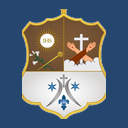
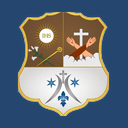
brasão: escudo inteiro e com respiro; rodapé reorganizado
O ESCUDO estava cortado nos quatro lados. Medindo o brasão de 900x1109: as
abas do escudo começam em y=301 e a ponta termina em y=912, mas a caixa de
recorte começava em y=247 -- 54 px acima, dentro da haste da cruz, que vinha
junto como um toco -- e terminava exatamente em cima da ponta.

Duas correções, as duas medidas e não estimadas:

- a caixa passou a conter o escudo inteiro, com folga nas laterais;
- `com_margem()` acrescenta uma margem transparente ao redor. Isso precisa ser
  ACRESCENTADO, não apenas "não cortado": `recortar_conteudo` recorta DENTRO
  da imagem, então quando o desenho encosta na borda não há de onde tirar
  respiro. Vale para o brasão completo também.

Com a folga, entrava um pedaço da fita no canto de baixo -- as letras
"...TA CLARA..." apareciam ali. `manter_maior_peca` não resolvia porque a fita
ENCOSTA no escudo e as duas viram uma peça só. `manter_trecho_central` varre
cada linha do meio para fora até achar transparência: sai o escudo, e o que
estiver separado por qualquer vão some. Conferido: as quatro bordas agora têm
zero pixels opacos, nas duas imagens. Favicon regerado do escudo novo.

O RODAPÉ tinha doze links do mesmo peso em duas colunas -- uma parede que
obriga a ler tudo para achar o horário da missa. Agora são três grupos
nomeados (Celebrações, Comunidade, Participe), e o olho pula direto para o
bloco certo.

Telefone, WhatsApp e e-mail viraram links de verdade (`tel:`, `wa.me`,
[…]

Changed region(s): [[0.125, 0.0625, 0.875, 0.9375]]

diff --git a/components/Footer.tsx b/components/Footer.tsx
@@ -1,82 +1,187 @@
 import Link from "next/link";
 import Image from "next/image";
-import { MapPin, Phone, Mail, Clock } from "lucide-react";
-import { paroquia } from "@/lib/dados";
+import { Clock, Mail, MapPin, MessageCircle, MonitorPlay, Phone } from "lucide-react";
+import { paroquia, youtube } from "@/lib/dados";
+
+/**
+ * Rodapé do site.
+ *
+ * Os atalhos vêm agrupados por assunto, e não numa lista corrida de doze
+ * itens: uma coluna com doze links do mesmo peso vira parede, e quem procura
+ * o horário da missa lê tudo até achar. Com os grupos nomeados, o olho pula
+ * direto para o bloco certo.
+ *
+ * Telefone, WhatsApp e e-mail são links de verdade (`tel:`, `wa.me`,
+ * `mailto:`) — no celular, que é de onde vem a maior parte das visitas, isso
+ * é a diferença entre ligar num toque e copiar o número na mão.
+ */
+
+type Grupo = { titulo: string; itens: { href: string; texto: string }[] };
+
+const ATALHOS: Grupo[] = [
+  {
+    titulo: "Celebrações",
+    itens: [
+      { href: "/horarios", texto: "Horários de missas" },
+      { href: "/calendario-liturgico", texto: "Calendário litúrgico" },
+      { href: "/povo-de-deus", texto: "Folheto O Povo de Deus" },
+      { href: "/missa-online", texto: "Missa online" },
+    ],
+  },
+  {
+    titulo: "Comunidade",
+    itens: [
+      { href: "/sobre", texto: "A paróquia" },
+      { href: "/pastorais", texto: "Pastorais e movimentos" },
+      { href: "/catequese", texto: "Catequese" },
+      { href: "/galeria", texto: "Galeria de fotos" },
+    ],
+  },
+  {
+    titulo: "Participe",
+    itens: [
+      { href: "/aviso-paroquial", texto: "Aviso paroquial" },
+      { href: "/noticias", texto: "Notícias e eventos" },
+      { href: "/dizimo", texto: "Dízimo e doações" },
+      { href: "/contato", texto: "Fale conosco" },
+    ],
+  },
+];
+
+/** Só os dígitos, que é o que `tel:` entende. */
+const TELEFONE_DISCAVEL = paroquia.telefone.replace(/\D/g, "");
 
 export default function Footer() {
   return (
     <footer className="bg-principal text-fundo">
-      <div className="mx-auto grid max-w-6xl gap-8 px-4 py-10 sm:grid-cols-2 lg:grid-cols-3">
-        <div>
-          <div className="flex items-center gap-3">
-            <Image
-              src="/fotos/brasao-escudo.webp"
-              alt=""
-              width={480}
-              height={600}
-              className="h-12 w-auto"
-            />
-            <h2 className="font-serif text-lg">{paroquia.nome}</h2>
+      <div className="mx-auto max-w-6xl px-4 py-12">
+        <div className="grid gap-10 lg:grid-cols-12">
+          {/* Identidade */}
+          <div className="lg:col-span-4">
+            <div className="flex items-start gap-4">
+              <Image
+                src="/fotos/brasao-escudo.webp"
+                alt=""
+                width={480}
+                height={542}
+                className="h-16 w-auto shrink-0 drop-shadow"
+              />
+              <div>
+                <p className="font-serif text-lg leading-tight">
+                  {paroquia.nome}
+                </p>
+                <p className="mt-1 text-sm text-fundo-suave">
+                  Jardim Botânico · Brasília-DF
+                </p>
+              </div>
+            </div>
+
+            <p className="mt-5 border-l-2 border-destaque pl-3 text-sm italic leading-relaxed text-destaque-claro">
+              “Senhor, fazei-me instrumento de vossa paz.”
+            </p>
+
+            <a
+              href={youtube.canalUrl}
+              target="_blank"
+              rel="noopener noreferrer"
+              className="mt-5 inline-flex items-center gap-2 rounded-lg border border-principal-claro px-3 py-2 text-sm transition-colors hover:border-destaque hover:text-destaque"
+            >
+              <MonitorPlay className="h-4 w-4" aria-hidden />
+              Canal no YouTube
+            </a>
           </div>
-          <p className="mt-3 flex items-start gap-2 text-sm text-fundo-suave">
-            <MapPin className="mt-0.5 h-4 w-4 shrink-0 text-destaque" aria-hidden />
-            {paroquia.endereco}
-          </p>
-          <p className="mt-4 text-sm italic text-destaque-claro">
-            “Senhor, fazei-me instrumento de vossa paz.”
-          </p>
-        </div>
 
-        <div>
-          <h2 className="font-serif text-lg">Secretaria</h2>
-          <ul className="mt-3 space-y-2 text-sm text-fundo-suave">
-            <li className="flex items-center gap-2">
-              <Phone className="h-4 w-4 text-destaque" aria-hidden />
-              {paroquia.telefone}
-            </li>
-            <li className="flex items-center gap-2">
-              <Mail className="h-4 w-4 text-destaque" aria-hidden />
-              {paroquia.email}
-            </li>
-            <li className="flex items-start gap-2">
-              <Clock className="mt-0.5 h-4 w-4 shrink-0 text-destaque" aria-hidden />
-              {paroquia.horarioSecretaria}
-            </li>
-          </ul>
-        </div>
+          {/* Secretaria */}
+          <div className="lg:col-span-3">
+            <h2 className="font-serif text-lg">Secretaria</h2>
+            <ul className="mt-4 space-y-3 text-sm text-fundo-suave">
+              <li>
+                <a
+                  href={`tel:+55${TELEFONE_DISCAVEL}`}
+                  className="flex items-start gap-2.5 transition-colors hover:text-destaque"
+                >
+                  <Phone className="mt-0.5 h-4 w-4 shrink-0 text-destaque" aria-hidden />
+                  {paroquia.telefone}
+                </a>
+              </li>
+              <li>
+                <a
+                  href={`https://wa.me/${paroquia.whatsapp}`}
+                  target="_blank"
+                  rel="noopener noreferrer"
+                  className="flex items-start gap-2.5 transition-colors hover:text-destaque"
+                >
+                  <MessageCircle className="mt-0.5 h-4 w-4 shrink-0 text-destaque" aria-hidden />
+                  WhatsApp
+                </a>
+              </li>
+              <li>
+                <a
+                  href={`mailto:${paroquia.email}`}
+                  className="flex items-start gap-2.5 break-all transition-colors hover:text-destaque"
+                >
+                  <Mail className="mt-0.5 h-4 w-4 shrink-0 text-destaque" aria-hidden />
+                  {paroquia.email}
+                </a>
+              </li>
+              <li className="flex items-start gap-2.5">
+                <Clock className="mt-0.5 h-4 w-4 shrink-0 text-destaque" aria-hidden />
+                <span>{paroquia.horarioSecretaria}</span>
+              </li>
+              <li className="flex items-start gap-2.5">
+                <MapPin className="mt-0.5 h-4 w-4 shrink-0 text-destaque" aria-hidden />
+                <span>{paroquia.endereco}</span>
+              </li>
+            </ul>
+          </div>
 
-        <div>
-          <h2 className="font-serif text-lg">Acesso rápido</h2>
-          <ul className="mt-3 grid grid-cols-2 gap-2 text-sm">
-            <li><Link className="hover:text-destaque" href="/aviso-paroquial">Aviso Paroquial</Link></li>
-            <li><Link className="hover:text-destaque" href="/horarios">Horários de Missas</Link></li>
-            <li><Link className="hover:text-destaque" href="/povo-de-deus">Folheto O Povo de Deus</Link></li>
-            <li><Link className="hover:text-destaque" href="/calendario-liturgico">Calendário Litúrgico</Link></li>
-            <li><Link className="hover:text-destaque" href="/sobre">A Paróquia</Link></li>
-            <li><Link className="hover:text-destaque" href="/pastorais">Pastorais</Link></li>
-            <li><Link className="hover:text-destaque" href="/catequese">Catequese</Link></li>
-            <li><Link className="hover:text-destaque" href="/missa-online">Missa Online</Link></li>
-            <li><Link className="hover:text-destaque" href="/noticias">Notícias</Link></li>
-            <li><Link className="hover:text-destaque" href="/galeria">Galeria de Fotos</Link></li>
-            <li><Link className="hover:text-destaque" href="/dizimo">Dízimo e Doações</Link></li>
-            <li><Link className="hover:text-destaque" href="/contato">Contato</Link></li>
-          </ul>
+          {/* Atalhos, agrupados por assunto */}
+          <nav className="lg:col-span-5" aria-label="Atalhos do rodapé">
+            <h2 className="font-serif text-lg">Acesso rápido</h2>
+            <div className="mt-4 grid gap-6 sm:grid-cols-3">
+              {ATALHOS.map((grupo) => (
+                <div key={grupo.titulo}>
+                  <h3 className="text-xs font-semibold uppercase tracking-wider text-destaque">
+                    {grupo.titulo}
+                  </h3>
+                  <ul className="mt-2.5 space-y-2 text-sm text-fundo-suave">
+                    {grupo.itens.map((item) => (
+                      <li key={item.href}>
+                        <Link
+                          href={item.href}
+                          className="transition-colors hover:text-destaque"
+                        >
+                          {item.texto}
+                        </Link>
+                      </li>
+                    ))}
+                  </ul>
+                </div>
+              ))}
+            </div>
+          </nav>
         </div>
       </div>
-      <div className="border-t border-principal-claro py-4 text-center text-xs text-fundo-suave">
-        © {new Date().getFullYear()} {paroquia.nome} · Arquidiocese de Brasília
-        {/* Entrada da secretaria. Discreta de propósito: quem visita o site não
-            precisa dela. Discreta não é escondida — quem trabalha aqui tem de
-            achar sem decorar endereço. O robots.txt já mantém /admin fora das
-            buscas, e o rel="nofollow" evita que os buscadores a sigam daqui. */}
-        <span aria-hidden className="mx-2 opacity-50">·</span>
-        <Link
-          href="/admin"
-          rel="nofollow"
-          className="underline decoration-dotted underline-offset-2 opacity-70 transition-opacity hover:opacity-100 focus-visible:opacity-100"
-        >
-          Área da secretaria
-        </Link>
+
+      <div className="border-t border-principal-claro">
+        <div className="mx-auto flex max-w-6xl flex-col items-center justify-between gap-2 px-4 py-4 text-xs text-fundo-suave sm:flex-row">
+          <p>
+            © {new Date().getFullYear()} {paroquia.nome} · Arquidiocese de
+            Brasília
+          </p>
+          {/* Entrada da secretaria. Discreta de propósito: quem visita o site
+              não precisa dela. Discreta não é escondida — quem trabalha aqui
+              tem de achar sem decorar endereço. O robots.txt já mantém /admin
+              fora das buscas, e o rel="nofollow" evita que os buscadores a
+              sigam daqui. */}
+          <Link
+            href="/admin"
+            rel="nofollow"
+            className="underline decoration-dotted underline-offset-4 opacity-70 transition-opacity hover:opacity-100 focus-visible:opacity-100"
+          >
+            Área da secretaria
+          </Link>
+        </div>
       </div>
     </footer>
   );

diff --git a/scripts/preparar-brasao.py b/scripts/preparar-brasao.py
@@ -28,15 +28,34 @@ DESTINO = Path("public/fotos")
 # Recorte do escudo sozinho (sem a fita nem a cruz), como fração do brasão
 # completo já aparado.
 #
-# A base saiu de 0,795 para 0,823 em 02/09/2026: o valor antigo decepava a
-# ponta de baixo do escudo, e como a metade inferior dele é branca, contra o
-# azul do cabeçalho aquilo virava um retângulo branco.
+# Os quatro valores foram MEDIDOS no brasão de 900x1109, não estimados
+# (03/09/2026):
 #
-# O 0,823 foi medido, não estimado: varrendo a largura opaca linha a linha, o
-# escudo afina até 37 px em y=910 (a ponta) e volta a alargar logo abaixo — o
-# que já é a fita. Descer até a ponta traz lascas da fita nos cantos, que
-# `manter_maior_peca` remove depois.
-ESCUDO_CAIXA = (0.218, 0.223, 0.782, 0.823)  # esquerda, topo, direita, base
+#   topo    y=301  — primeira linha com mais de 150 px de largura, ou seja,
+#                    onde as abas do escudo começam. Acima disso só há a haste
+#                    da cruz, com seus ~35 px no centro.
+#   base    y=912  — a ponta. Varrendo o miolo linha a linha, o escudo afina
+#                    até 38 px em y=910 e a linha seguinte já alarga para 300:
+#                    isso é a fita, não o escudo.
+#   lados   x=203 a 695 na altura mais larga (y=420), varrendo do centro para
+#                    fora até achar transparência.
+#
+# A caixa é folgada nas laterais de propósito: com folga entram lascas da
+# fita, que `manter_maior_peca` remove por não estarem grudadas no escudo.
+# Sem folga, o recorte come a borda dourada.
+#
+# O valor anterior (0,218 / 0,223 / 0,782 / 0,823) começava 54 px ACIMA do
+# escudo, o que trazia junto um toco da haste da cruz, e terminava em cima da
+# ponta, sem sobra nenhuma.
+ESCUDO_CAIXA = (0.200, 0.270, 0.800, 0.8235)  # esquerda, topo, direita, base
+
+# Margem transparente ao redor da figura, em fração do maior lado.
+#
+# Precisa ser acrescentada, e não apenas "não cortada": `recortar_conteudo`
+# recorta DENTRO da imagem, então quando o desenho encosta na borda não há de
+# onde tirar respiro. Sem isso o escudo fica espremido contra o azul do rodapé
+# e a borda serrilhada some.
+MARGEM_AO_REDOR = 0.03
 
 
 def eh_fundo(r: int, g: int, b: int) -> bool:
@@ -162,6 +181,46 @@ def remover_bolsas_de_xadrez(px, ap, w: int, h: int) -> None:
         print("  nenhuma bolsa de xadrez encontrada")
 
 
+def manter_trecho_central(imagem: Image.Image) -> Image.Image:
+    """Em cada linha, fica só com o trecho contínuo que passa pelo centro.
+
+    A fita passa POR TRÁS do escudo e reaparece nos cantos de baixo. Nesses
+    pontos ela ENCOSTA no escudo, então `manter_maior_peca` sozinha não
+    resolve: as duas viram uma peça só, e o pedaço da fita com as letras
+    "…TA CLARA…" ficava no canto inferior esquerdo.
+
+    O escudo, porém, é uma figura cheia em volta do centro. Varrendo cada
+    linha do meio para fora até achar transparência, sai exatamente ele — e o
+    que estiver separado por qualquer vão some. Onde a fita encosta de fato
+    sobram lascas soltas, que `manter_maior_peca` remove logo depois.
+    """
+    largura, altura = imagem.size
+    alfa = imagem.getchannel("A").load()
+    pixels = imagem.load()
+    meio = largura // 2
+    apagados = 0
+
+    for y in range(altura):
+        if alfa[meio, y] <= 12:
+            # Linha sem escudo no centro: o que houver ali é outra coisa.
+            limite_esquerdo, limite_direito = -1, largura
+        else:
+            limite_esquerdo = meio
+            while limite_esquerdo > 0 and alfa[limite_esquerdo - 1, y] > 12:
+                limite_esquerdo -= 1
+            limite_direito = meio
+            while limite_direito < largura - 1 and alfa[limite_direito + 1, y] > 12:
+                limite_direito += 1
+
+        for x in range(largura):
+            if alfa[x, y] > 12 and (x < limite_esquerdo or x > limite_direito):
+                pixels[x, y] = (255, 255, 255, 0)
+                apagados += 1
+
+    print(f"  fita fora do escudo removida: {apagados} px")
+    return imagem
+
+
 def manter_maior_peca(imagem: Image.Image) -> Image.Image:
     """Apaga pedaços soltos, deixando só a maior figura conectada.
 
@@ -220,6 +279,14 @@ def recortar_conteudo(imagem: Image.Image, margem: int = 8) -> Image.Image:
     )
 
 
+def com_margem(imagem: Image.Image, fracao: float = MARGEM_AO_REDOR) -> Image.Image:
+    """Cola a figura no meio de uma tela transparente um pouco maior."""
+    folga = round(max(imagem.size) * fracao)
+    tela = Image.new("RGBA", (imagem.width + folga * 2, imagem.height + folga * 2), (255, 255, 255, 0))
+    tela.paste(imagem, (folga, folga), imagem)
+    return tela
+
+
 def salvar(imagem: Image.Image, nome: str, largura_maxima: int):
     if imagem.width > largura_maxima:
         altura = round(imagem.height * largura_maxima / imagem.width)
@@ -234,10 +301,11 @@ DESTINO.mkdir(parents=True, exist_ok=True)
 fonte = Image.open(ORIGEM).convert("RGB")
 sem_fundo = remover_fundo(fonte)
 completo = recortar_conteudo(sem_fundo)
-salvar(completo, "brasao.webp", 900)
+salvar(com_margem(completo), "brasao.webp", 900)
 
 # O escudo ocupa a faixa central; a fita e a haste da cruz somem em miniatura.
 l, a = completo.size
 esq, topo, dir_, base = ESCUDO_CAIXA
 escudo = completo.crop((round(l * esq), round(a * topo), round(l * dir_), round(a * base)))
-salvar(recortar_conteudo(manter_maior_peca(escudo), margem=4), "brasao-escudo.webp", 480)
+escudo = manter_maior_peca(manter_trecho_central(escudo))
+salvar(com_margem(recortar_conteudo(escudo, margem=4)), "brasao-escudo.webp", 480)
